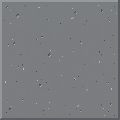
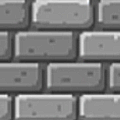
Colored attack indicator if can attack and now random empty sprite but no background

diff --git a/client/game/gameview.cpp b/client/game/gameview.cpp
@@ -5,8 +5,6 @@ GameView::GameView(QWidget* parent)
     , m_scene(new QGraphicsScene(this))
     , m_timer(new QTimer(this))
 {
-    srand(static_cast<unsigned>(time(nullptr)));
-
     setScene(m_scene);
 
     initEntitiesUi();
@@ -97,16 +95,6 @@ void GameView::initEntitiesUi() {
     }
 }
 
-QGraphicsPixmapItem* initBackground(int width, int height, double offsetX, double offsetY) {
-    QPixmap background(":/tiles/background.png");
-    background = background.scaled(width, height, Qt::IgnoreAspectRatio, Qt::SmoothTransformation);
-
-    QGraphicsPixmapItem* bgItem = new QGraphicsPixmapItem(background);
-    bgItem->setZValue(-1);
-    bgItem->setPos(offsetX, offsetY);
-    return bgItem;
-}
-
 void GameView::initBuildPreview() {
     m_buildPreview = new QGraphicsPixmapItem();
     m_buildPreview->setOpacity(0.5);
@@ -123,7 +111,6 @@ void GameView::buildMap() {
     double offsetX = -mapWidth / 2.0;
     double offsetY = -mapHeight / 2.0;
 
-    m_scene->addItem(initBackground(mapWidth, mapHeight, offsetX, offsetY));
     initBuildPreview();
 
     for (int y = 0; y < map.getTileCountY(); ++y) {
@@ -133,7 +120,9 @@ void GameView::buildMap() {
             tileItem->setPos(x * Map::TILE_SIZE + offsetX, y * Map::TILE_SIZE + offsetY);
             tileItem->setZValue(0);
 
-            const TileVisual& visual = tileVisual(map.tileAt(x, y).getType());
+            const Tile& tile = map.tileAt(x, y);
+            const TileVisual& visual = tile.getType() == Tile::TileType::Empty ? emptyVisual(tile.getVariation())
+                                                                               : tileVisual(tile.getType());
             if (!visual.sprite.isNull())
                 tileItem->setPixmap(visual.sprite.scaled(Map::TILE_SIZE, Map::TILE_SIZE,
                                     Qt::IgnoreAspectRatio, Qt::SmoothTransformation));
@@ -294,6 +283,11 @@ void GameView::updateEntityAtkIndicator(Entity* entity, EntityUi& ui) {
             return;
         }
 
+        QColor color;
+        if (player->canAttack()) color = QColor(255, 220, 100, 120);
+        else color = QColor(150, 150, 150, 120);
+        ui.attackIndicator->setBrush(color);
+
         QPointF mouseScene = mapToScene(mapFromGlobal(QCursor::pos()));
 
         ui.attackIndicator->setPos(player->getRadius(), player->getRadius());
@@ -347,7 +341,9 @@ void GameView::updateEntitiesUi() {
 void GameView::updateTile(int x, int y) {
     QPoint key(x, y);
     if (m_tileItems.contains(key)){
-        const TileVisual& visual = tileVisual(m_game.getMap().tileAt(x, y).getType());
+        const Tile& tile = m_game.getMap().tileAt(x, y);
+        const TileVisual& visual = tile.getType() == Tile::TileType::Empty ? emptyVisual(tile.getVariation())
+                                                                           : tileVisual(tile.getType());
 
         if (visual.sprite.isNull()) {
             m_tileItems[key]->setPixmap(QPixmap());
@@ -382,12 +378,12 @@ void GameView::updateBuildPreview() {
     QPoint tile = m_game.worldToTile(mouseScene);
     Tile::TileType type = player->getInventory().getActiveResourceType();
 
-    if (tile == m_previewTile && type == m_previewType)
+    if (tile == m_previewTile && type == m_previewType) return;
 
     m_previewTile = tile;
     m_previewType = type;
 
-    if (!m_game.canPlaceTile(tile, type)) {
+    if (!m_game.canPlaceTile(tile)) {
         m_buildPreview->hide();
         return;
     }

diff --git a/client/map/tilevisual.cpp b/client/map/tilevisual.cpp
@@ -1,13 +1,13 @@
 #include "tilevisual.h"
 
 const TileVisual& tileVisual(Tile::TileType type) {
-    static const TileVisual empty { QPixmap() };
     static const TileVisual board { QPixmap(":/tiles/board.png") };
     static const TileVisual brickStrong { QPixmap(":/tiles/brick_strong.png") };
     static const TileVisual brickCracked { QPixmap(":/tiles/brick_cracked.png") };
     static const TileVisual grass { QPixmap(":/tiles/grass.png") };
     static const TileVisual water { QPixmap(":/tiles/water.png") };
     static const TileVisual wall { QPixmap(":/tiles/wall.png") };
+    static const TileVisual empty { QPixmap() };
 
     switch (type) {
     case Tile::TileType::Board: return board;
@@ -17,5 +17,17 @@ const TileVisual& tileVisual(Tile::TileType type) {
     case Tile::TileType::Water: return water;
     case Tile::TileType::Wall: return wall;
     default: return empty;
+    }
+}
+
+const TileVisual& emptyVisual(int variant) {
+    static const TileVisual empty1 { QPixmap(":/tiles/empty_1.png") };
+    static const TileVisual empty2 { QPixmap(":/tiles/empty_2.png") };
+    static const TileVisual empty3 { QPixmap(":/tiles/empty_3.png") };
+
+    switch (variant) {
+    case 0: return empty1;
+    case 1: return empty2;
+    default: return empty3;
     }
 }

diff --git a/client/game/game.cpp b/client/game/game.cpp
@@ -38,7 +38,7 @@ bool rectCircleIntersect(const QRectF& rect, const QPointF& circleCenter, float 
     return (deltaX * deltaX + deltaY * deltaY) <= (radius * radius);
 }
 
-bool Game::canPlaceTile(const QPoint& tilePos, Tile::TileType type) const {
+bool Game::canPlaceTile(const QPoint& tilePos) const {
     const Tile& tile = m_map.tileAt(tilePos.x(), tilePos.y());
 
     if (tile.getType() != Tile::TileType::Empty) return false;
@@ -65,7 +65,7 @@ bool Game::tryPlaceTile(const QPoint& tilePos) {
 
     Tile::TileType type = inventory.getActiveResourceType();
 
-    if (!canPlaceTile(tilePos, type)) return false;
+    if (!canPlaceTile(tilePos)) return false;
     if (!inventory.spendResource(type, 1)) return false;
 
     m_map.tileAt(tilePos.x(), tilePos.y()).setType(type);

diff --git a/client/map/map.cpp b/client/map/map.cpp
@@ -33,7 +33,15 @@ bool Map::generateFromText(const QStringList& lines) {
             case '#': type = Tile::TileType::Wall; break;
             default: type = Tile::TileType::Empty; break;
             }
-            row.append(Tile(type));
+            Tile tile(type);
+            if (type == Tile::TileType::Empty) {
+                int random = rand() % 100;
+                if (random < 60) tile.setVariation(0);
+                else if (random < 90) tile.setVariation(1);
+                else tile.setVariation(2);
+            }
+
+            row.append(tile);
         }
         m_tilesGrid.append(row);
 

diff --git a/client/map/tile.cpp b/client/map/tile.cpp
@@ -6,6 +6,10 @@ void Tile::setType(TileType type) { m_type = type; }
 
 Tile::TileType Tile::getType() const { return m_type; }
 
+void Tile::setVariation(unsigned short variation) { m_variation = variation; }
+
+unsigned short Tile::getVariation() const { return m_variation; }
+
 bool Tile::applyHit() {
     switch (m_type) {
     case TileType::Board: m_type = TileType::Empty; return true;

diff --git a/client/map/tilevisual.h b/client/map/tilevisual.h
@@ -2,11 +2,16 @@
 #define TILEVISUAL_H
 
 #include <QPixmap>
+#include <cstdlib>
+#include <ctime>
 
 #include "tile.h"
 
-struct TileVisual { QPixmap sprite; };
+struct TileVisual {
+    QPixmap sprite;
+};
 
 const TileVisual& tileVisual(Tile::TileType);
+const TileVisual& emptyVisual(int variant);
 
 #endif // TILEVISUAL_H

diff --git a/client/map/tile.h b/client/map/tile.h
@@ -19,10 +19,14 @@ public:
     void setType(TileType);
     TileType getType() const;
 
+    void setVariation(unsigned short);
+    unsigned short getVariation() const;
+
     bool applyHit();
 
 private:
     TileType m_type;
+    unsigned char m_variation = 0;
 };
 
 #endif // TILE_H

diff --git a/client/game/game.h b/client/game/game.h
@@ -32,7 +32,7 @@ public:
     QPointF tileToWorld(const QPoint&) const;
     QPoint worldToTile(const QPointF&) const;
 
-    bool canPlaceTile(const QPoint&, Tile::TileType) const;
+    bool canPlaceTile(const QPoint&) const;
     bool tryPlaceTile(const QPoint&);
 
 private:

diff --git a/client/main.cpp b/client/main.cpp
@@ -4,6 +4,7 @@
 
 int main(int argc, char *argv[])
 {
+    srand(static_cast<unsigned>(time(nullptr)));
     QApplication a(argc, argv);
     MainWindow w;
     w.show();
